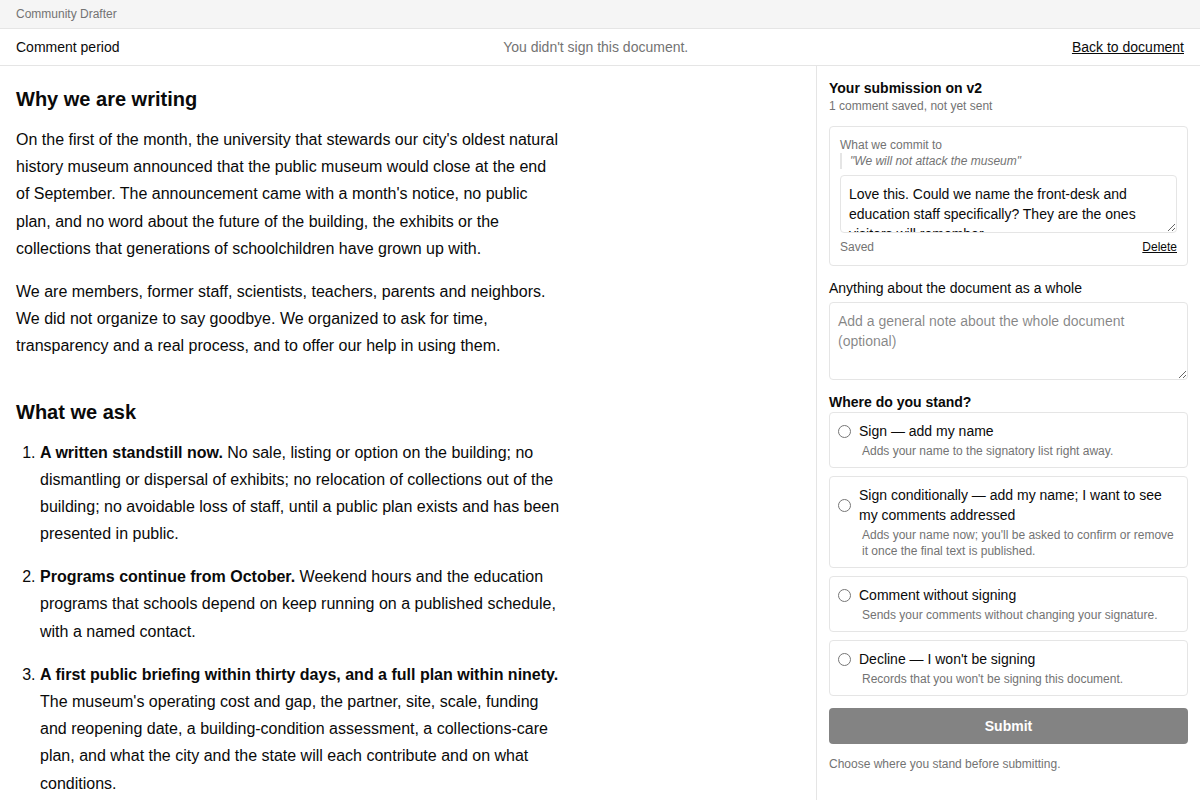
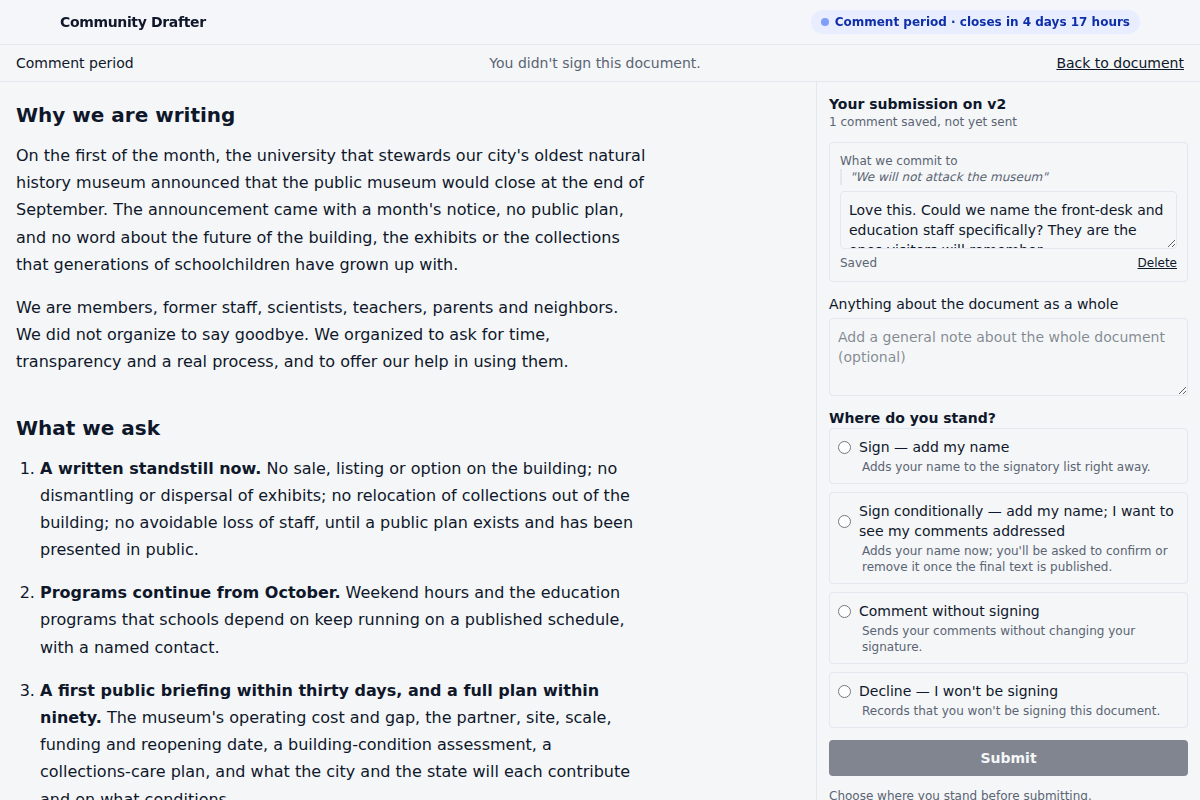
chore(plans): mark participant-visual-design done (PR #32); refresh homepage screenshots
Claude-Session: https://claude.ai/code/session_0178WPJgRasbvmBMfUHauW12

diff --git a/plans/participant-visual-design.md b/plans/participant-visual-design.md
@@ -1,5 +1,6 @@
 ---
-status: planned
+status: done
+pr: 32
 depends: []
 specs:
   - specs/screens/document.md
@@ -24,16 +25,16 @@ Restyle the live participant document screen (and the public read view, which sh
 6. Re-run the existing component tests (copy unchanged), bundle-size check, browser check at 390 and 1280, deploy, re-capture `site/img/*.png`, republish Pages.
 
 ## Validation
-- [ ] Phone (390 px): action panel above the document, sticky bottom bar appears only after the panel scrolls away, no horizontal overflow.
-- [ ] Desktop (1280 px): document card left, sticky panel right, timeline chips + rail above both.
-- [ ] Existing tests pass unchanged; participant entry stays under the bundle budget.
-- [ ] Homepage screenshots re-captured from the live app and Pages republished.
+- [x] Phone (390 px): action panel above the document, sticky bottom bar appears only after the panel scrolls away (IntersectionObserver), no horizontal overflow (scrollWidth 390).
+- [x] Desktop (1280 px): document card left, sticky panel right, timeline chips + rail above both (live screenshot).
+- [x] Existing tests pass unchanged (70 web tests); participant entry 95 KB gzip of 120.
+- [x] Homepage screenshots re-captured from the live app and Pages republished.
 
 ## Risks / unknowns
 - **Dark scheme** gets the same roles but was not mocked; keep contrast honest rather than pretty.
 
 ## Notes
-(closeout)
+- Shipped as PR #32 plus a follow-up (separator dots in the version line). Dark scheme tokens are defined but were not visually reviewed.
 
 ## Follow-ups
-(closeout)
+- Tracked as: comment mode's tray and the admin dashboard still use the pre-design classes; they inherit the tokens but not the card language.
